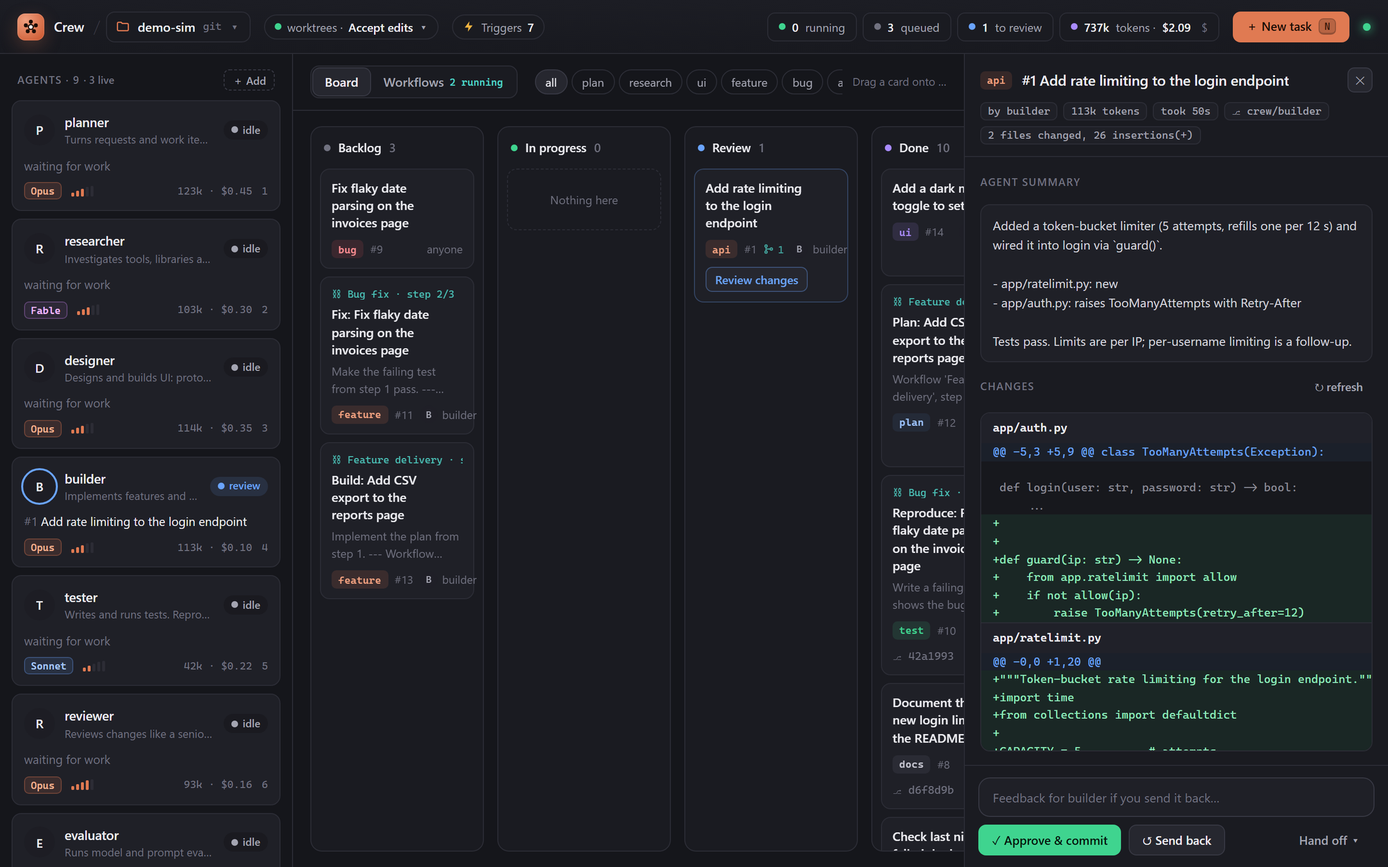
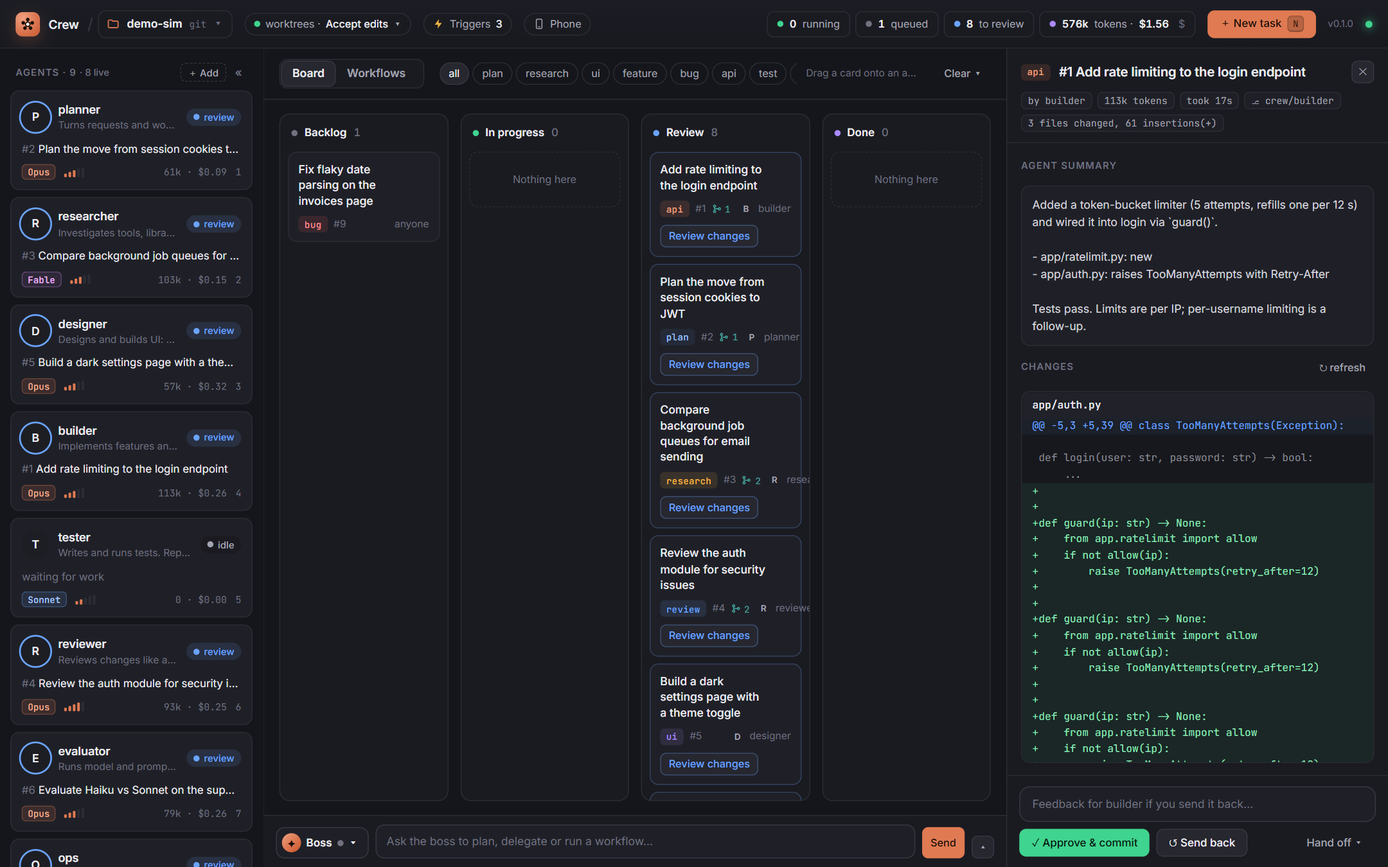
Collapsible agents pane, Clear on the chat panel, Triggers before Phone; README and screenshots refreshed
- « collapses the agents rail to avatars with status dots (remembered per browser)
- Clear chat is a red outlined button at the top right of the open conversation; the input-row icon is gone
- the / picker's class no longer collides with the header's / separator
- README: install, releasing, / picker, canvas, outputs; new hero, agent, review, flows, canvas, slash and phone screenshots

diff --git a/index.html b/index.html
@@ -306,19 +306,19 @@ textarea::placeholder,input::placeholder{color:var(--faint)}
 .menu .mi.cur{color:var(--text)}.menu .mi.cur::after{content:"\2713";margin-left:auto;color:var(--accent)}
 .menu .sep{height:1px;background:var(--line);margin:5px 4px}
 .menu .mi[aria-disabled=true]{opacity:.38;pointer-events:none}
-.slash{position:fixed;z-index:41;background:var(--raised);border-radius:12px;box-shadow:var(--shadow);padding:6px;display:flex;flex-direction:column;animation:rise .12s ease-out}
-.slash[hidden]{display:none}
-.slash .sh{padding:4px 10px 6px;font-size:11px;color:var(--faint);text-transform:uppercase;letter-spacing:.08em;font-weight:600;display:flex;gap:8px}
-.slash .sh span{margin-left:auto;text-transform:none;letter-spacing:0;font-weight:400}
-.slash .sl{overflow-y:auto;max-height:min(320px,42dvh)}
-.slash .si{display:flex;align-items:baseline;gap:10px;padding:7px 10px;border-radius:8px;cursor:pointer;color:var(--muted);font-size:12.5px}
-.slash .si.on{background:var(--hover);color:var(--text)}
-.slash .si b{font:600 12.5px var(--mono);color:var(--text);white-space:nowrap}
-.slash .si b i{font-style:normal;color:var(--accent)}
-.slash .si .d{flex:1;min-width:0;overflow:hidden;text-overflow:ellipsis;white-space:nowrap;color:var(--faint);font-size:12px}
-.slash .si .k{font-size:10.5px;color:var(--faint);border:1px solid var(--line);border-radius:6px;padding:0 6px;white-space:nowrap}
-.slash .si .k.crew{color:var(--accent);border-color:var(--accent-line)}
-.slash .empty{padding:10px;color:var(--faint);font-size:12.5px}
+.slashpop{position:fixed;z-index:41;background:var(--raised);border-radius:12px;box-shadow:var(--shadow);padding:6px;display:flex;flex-direction:column;animation:rise .12s ease-out}
+.slashpop[hidden]{display:none}
+.slashpop .sh{padding:4px 10px 6px;font-size:11px;color:var(--faint);text-transform:uppercase;letter-spacing:.08em;font-weight:600;display:flex;gap:8px}
+.slashpop .sh span{margin-left:auto;text-transform:none;letter-spacing:0;font-weight:400}
+.slashpop .sl{overflow-y:auto;max-height:min(320px,42dvh)}
+.slashpop .si{display:flex;align-items:baseline;gap:10px;padding:7px 10px;border-radius:8px;cursor:pointer;color:var(--muted);font-size:12.5px}
+.slashpop .si.on{background:var(--hover);color:var(--text)}
+.slashpop .si b{font:600 12.5px var(--mono);color:var(--text);white-space:nowrap}
+.slashpop .si b i{font-style:normal;color:var(--accent)}
+.slashpop .si .d{flex:1;min-width:0;overflow:hidden;text-overflow:ellipsis;white-space:nowrap;color:var(--faint);font-size:12px}
+.slashpop .si .k{font-size:10.5px;color:var(--faint);border:1px solid var(--line);border-radius:6px;padding:0 6px;white-space:nowrap}
+.slashpop .si .k.crew{color:var(--accent);border-color:var(--accent-line)}
+.slashpop .empty{padding:10px;color:var(--faint);font-size:12.5px}
 .kebab{flex:none;width:22px;height:22px;border-radius:6px;display:grid;place-items:center;border:0;background:transparent;color:var(--faint);cursor:pointer;opacity:0;transition:opacity .12s,background .12s;font-size:14px;line-height:1}
 .card:hover .kebab,.kebab:focus-visible{opacity:1}.kebab:hover{background:var(--hover);color:var(--text)}
 .card .th{display:flex;align-items:flex-start;gap:4px}.card .th .t{flex:1;min-width:0}
@@ -591,6 +591,24 @@ textarea::placeholder,input::placeholder{color:var(--faint)}
 .card[data-card]{cursor:pointer}
 .agent.dropb{box-shadow:inset 0 3px 0 var(--accent)}.agent.dropa{box-shadow:inset 0 -3px 0 var(--accent)}
 .agent.dragging{opacity:.45}
+.railbtn{border:0;background:transparent;color:var(--faint);cursor:pointer;border-radius:6px;padding:2px 6px;font-size:13px;line-height:1}
+.railbtn:hover{color:var(--text);background:var(--hover)}
+.sec .sr{display:flex;align-items:center;gap:4px}
+@media (min-width:761px){
+  .body.rail-min{grid-template-columns:60px 1fr}
+  .body.rail-min.drawer-open{grid-template-columns:60px 1fr 440px}
+  .rail-min .rail{padding:12px 6px;overflow-x:hidden}
+  .rail-min .sec{justify-content:center;margin:2px 0 12px}
+  .ravs{display:flex;flex-direction:column;align-items:center;gap:10px}
+  .rmini{cursor:pointer;border-radius:50%;padding:2px;position:relative}
+  .rmini .av{width:36px;height:36px}
+  .rmini.sel .av{box-shadow:0 0 0 2px var(--accent)}
+  .rmini .sd{position:absolute;right:1px;bottom:1px;width:9px;height:9px;border-radius:50%;border:2px solid var(--bg);background:var(--faint)}
+  .rmini .sd.running{background:var(--green)}.rmini .sd.review{background:var(--blue,#6aa0ff)}.rmini .sd.error,.rmini .sd.killed{background:var(--red)}.rmini .sd.paused{background:var(--amber)}
+}
+@media (min-width:761px) and (max-width:1100px){.body.rail-min.drawer-open{grid-template-columns:60px 1fr}}
+.clearbtn{border:1px solid rgba(255,107,114,.55);color:#ff8a90;background:transparent;border-radius:8px;padding:3px 11px;font-size:12px;font-weight:500;cursor:pointer;margin-left:10px;flex:none}
+.clearbtn:hover{background:var(--red-soft);border-color:#ff8a90}
 .btn.run i{font-style:normal;color:var(--green);font-size:11px}
 </style>
 </head>
@@ -604,8 +622,8 @@ textarea::placeholder,input::placeholder{color:var(--faint)}
       <span class="pn" id="projName">…</span><span class="pb" id="projGit"></span><span class="faint">▾</span>
     </button>
     <button class="chip modebtn" id="mode" title="Permission mode for all agents"></button>
-    <button class="chip phonebtn" id="phoneBtn" title="Open Crew on your phone" hidden><svg width="13" height="13" viewBox="0 0 24 24" fill="none" stroke="currentColor" stroke-width="2" stroke-linecap="round"><rect x="6" y="2" width="12" height="20" rx="2.5"/><path d="M11 18h2"/></svg> Phone</button>
     <button class="chip trigbtn" id="trigBtn" title="Triggers: schedules, events, file watches, polls and webhooks"><svg width="13" height="13" viewBox="0 0 24 24" fill="currentColor" aria-hidden="true"><path d="M13 2 4 14h7l-1 8 9-12h-7z"/></svg> <span class="tl">Triggers</span> <b id="trigN">0</b></button>
+    <button class="chip phonebtn" id="phoneBtn" title="Open Crew on your phone" hidden><svg width="13" height="13" viewBox="0 0 24 24" fill="none" stroke="currentColor" stroke-width="2" stroke-linecap="round"><rect x="6" y="2" width="12" height="20" rx="2.5"/><path d="M11 18h2"/></svg> Phone</button>
     <div class="stats" id="stats"></div>
     <button class="btn ghost" id="palBtn" title="Command palette">Search <kbd>Ctrl K</kbd></button>
     <button class="btn primary" id="newBtn">＋ New task <kbd style="background:rgba(0,0,0,.18);border-color:rgba(0,0,0,.2);color:#3a1a0c">N</kbd></button>
@@ -631,7 +649,6 @@ textarea::placeholder,input::placeholder{color:var(--faint)}
           <button class="chatto boss" id="chatTo" title="Who you're talking to"></button>
           <textarea id="chatIn" rows="1" placeholder="Ask the boss to plan, delegate or run a workflow…"></textarea>
           <button class="btn primary sm" id="chatSend" style="height:36px">Send</button>
-          <button class="iconbtn" id="chatClear" title="Clear this chat and start a fresh session (frees its context)">⌫</button>
           <button class="iconbtn" id="chatToggle" title="Show conversation">▴</button>
         </div>
       </div>
@@ -824,7 +841,15 @@ function render() {
 }
 
 function renderRail() {
-  $('#rail').innerHTML = `<div class="sec"><span>Agents · ${S.agents.length} <span style="font-weight:500;letter-spacing:0;text-transform:none">· ${S.agents.filter(a => a.alive).length} live</span></span><button class="add" data-add-agent title="Add an agent">＋ Add</button></div>` +
+  const mini = view.railMin && !matchMedia('(max-width:760px)').matches;
+  $('#body').classList.toggle('rail-min', mini);
+  if (mini) {
+    $('#rail').innerHTML = `<div class="sec"><button class="railbtn" data-rail-toggle title="Expand the agents pane">»</button></div><div class="ravs">` +
+      S.agents.map(a => `<div class="rmini ${view.drawer?.agent === a.name ? 'sel' : ''}" data-agent="${a.name}" data-drop-agent="${a.name}" title="${esc(a.name)} · ${a.status}${a.activity ? ' · ' + esc(a.activity) : ''}"><div class="av ${a.status}">${esc(a.name[0])}</div><span class="sd ${a.status}"></span></div>`).join('') +
+      `<button class="railbtn" data-add-agent title="Add an agent" style="font-size:16px">＋</button></div>`;
+    return;
+  }
+  $('#rail').innerHTML = `<div class="sec"><span>Agents · ${S.agents.length} <span style="font-weight:500;letter-spacing:0;text-transform:none">· ${S.agents.filter(a => a.alive).length} live</span></span><span class="sr"><button class="add" data-add-agent title="Add an agent">＋ Add</button><button class="railbtn" data-rail-toggle title="Collapse the agents pane">«</button></span></div>` +
     S.agents.map((a, i) => {
       const t = a.task ? task(a.task) : null;
       const sel = view.drawer?.agent === a.name;
@@ -1856,7 +1881,7 @@ function renderChat() {
   if (lg.dataset.sig === sig) return;
   const atBottom = lg.scrollHeight - lg.scrollTop - lg.clientHeight < 60;
   lg.dataset.sig = sig;
-  lg.innerHTML = `<div class="chathead">${boss ? `<b style="color:var(--text)">Boss</b> · ${esc(MODEL_INFO[t.model || '']?.[0] || t.model)} · delegates to the crew, never edits code` : `<b style="color:var(--text)">${esc(t.name)}</b> · ${esc(t.role.slice(0, 80))}`}${busy ? ' · <span style="color:var(--green)">working…</span>' : ''}<span style="margin-left:auto">${fmtTok(tokTotal(t))} tok${costTxt(t.cost)}</span></div>` +
+  lg.innerHTML = `<div class="chathead">${boss ? `<b style="color:var(--text)">Boss</b> · ${esc(MODEL_INFO[t.model || '']?.[0] || t.model)} · delegates to the crew, never edits code` : `<b style="color:var(--text)">${esc(t.name)}</b> · ${esc(t.role.slice(0, 80))}`}${busy ? ' · <span style="color:var(--green)">working…</span>' : ''}<span style="margin-left:auto">${fmtTok(tokTotal(t))} tok${costTxt(t.cost)}</span><button class="clearbtn" data-chat-clear title="Clear this chat and start a fresh session (frees its context)">Clear</button></div>` +
     (t.log.length ? renderLog(t.log.slice(-120)) : `<div class="empty">${boss ? 'Try: “Plan and build CSV export for reports, then have it tested and reviewed.”' : 'No messages yet.'}</div>`);
   if (atBottom || lg.dataset.jump) { lg.scrollTop = lg.scrollHeight; delete lg.dataset.jump; }
 }
@@ -1886,7 +1911,15 @@ function clearChat(who) {
   askConfirm('Clear this chat?', `The conversation with <b>${esc(name)}</b> is removed and its context is emptied; the next message starts a fresh session. Tasks, branches and commits are kept.`, 'Clear chat',
     async () => { const r = await act('clear_chat', {agent: who}); if (r.ok) { $('#chatlog').dataset.sig = ''; toast('Chat cleared', 'var(--green)'); } }, true);
 }
-$('#chatClear').onclick = () => clearChat(chatWho());
+document.addEventListener('click', e => {
+  if (e.target.closest('[data-chat-clear]')) return clearChat(chatWho());
+  if (e.target.closest('[data-rail-toggle]')) {
+    view.railMin = !view.railMin;
+    try { localStorage.setItem('crew.railMin', view.railMin ? '1' : ''); } catch {}
+    renderRail();
+  }
+});
+try { view.railMin = !!localStorage.getItem('crew.railMin'); } catch {}
 
 // ---- / commands: the crew's own, plus whatever the agent's Claude session can run ----------
 const CREW_CMDS = [
@@ -1926,7 +1959,7 @@ function slashItems(data) {
   for (const n of names) add(n, skills.has(n) || cat[n]?.kind === 'skill' ? 'skill' : 'command', cat[n]?.desc || CC_DESC[n]);
   return out;
 }
-const sl = Object.assign(document.createElement('div'), {className: 'slash', hidden: true, id: 'slash'});
+const sl = Object.assign(document.createElement('div'), {className: 'slashpop', hidden: true, id: 'slash'});
 document.body.append(sl);
 let slash = null; // {el, who, items, sel}
 const slashWho = el => el.id === 'msg' ? view.drawer?.agent : el.id === 'chatIn' ? chatWho() : null;

diff --git a/README.md b/README.md
@@ -31,6 +31,18 @@ python server.py --demo
 
 Open **http://127.0.0.1:8770**.
 
+## Install
+
+Crew is pure standard-library Python (3.10 or newer) and installs as a `crew` command. [pipx](https://pipx.pypa.io/) keeps it isolated:
+
+```bash
+pipx install claude-crew                      # from PyPI, once published
+pipx install https://github.com/pranjal-joshi/claude-crew/releases/download/v0.1.0/claude_crew-0.1.0-py3-none-any.whl   # a release wheel
+pipx install git+https://github.com/pranjal-joshi/claude-crew   # latest main
+```
+
+Then `crew --demo` or `crew --project /path/to/your/repo` behaves exactly like `python server.py ...`. When installed, the default `crew.json` lives in the folder you run `crew` from; state and worktrees stay in `~/.crew`. `crew --version` prints the version.
+
 ## Use it on your code
 
 You need [Claude Code](https://docs.claude.com/en/docs/claude-code) installed and signed in (`claude` works in your terminal).
@@ -63,6 +75,8 @@ Crew gives that queue a home:
 ## The boss
 
 A chat bar at the bottom (<kbd>/</kbd>) talks to the **boss**: a Claude session that runs the crew instead of writing code. Ask it to "plan and build CSV export, then have it tested and reviewed" and it creates tasks, assigns agents, starts workflows, messages or stops agents, and adds triggers, through a small set of crew tools (`crew_mcp.py`). Switch the chat to any agent to talk to it directly.
+
+Type <kbd>/</kbd> in the chat bar (or in an agent's message box) for a picker of commands and skills: Crew's own `/clear` `/compact` `/stop`, plus that agent's Claude Code slash commands and skills with their descriptions. <kbd>↑</kbd><kbd>↓</kbd> to move, <kbd>Tab</kbd> or <kbd>Enter</kbd> to pick, <kbd>Esc</kbd> to close.
 
 The boss runs with only the crew tools and a few read-only ones, so a turn costs about 10k tokens of context instead of your full setup.
 
@@ -116,9 +130,9 @@ The **Output** block decides what a finished run delivers:
 - **■ Stop** (agent card, drawer, or **Stop all** in the header) ends the current run at once. The session is kept, the task goes back to the backlog **on hold**, and the agent pauses until you press **▶ Resume** or give it work.
 - **Kill** disables an agent until you respawn it. Use it for an agent that misbehaves.
 - **Clear ▾** removes Done tasks, or the whole board (running agents are stopped first). Branches and commits are kept.
-- **⌫** in the chat bar clears the conversation with the boss or the agent you're talking to, and empties its context: the next message starts a fresh session.
+- **Clear** (red button, top right of an open boss or agent chat) wipes that conversation and empties its context: the next message starts a fresh session.
 
-Click a card on the board to open the agent that handled it. Drag agents in the left rail to reorder the crew; the order is saved to `crew.json`.
+Click a card on the board to open the agent that handled it. Drag agents in the left rail to reorder the crew; the order is saved to `crew.json`. Collapse the rail with « to a slim column of avatars and status dots, and » brings it back (remembered per browser).
 
 ## Context per task
 
@@ -149,7 +163,7 @@ Nine presets cover the common loops: daily standup, test what ships, review what
 | | |
 | --- | --- |
 | 🧑🤝🧑 **An SDLC crew** | Planner, researcher, designer, builder, tester, reviewer, evaluator, ops and scribe by default. Add, remove and re-role agents from the UI. |
-| ⛓ **Workflows** | Chain agents in order (plan → build → test → review → write-up), with an approval or auto gate per step. |
+| ⛓ **Workflows** | Chain agents in order (plan → build → test → review → write-up) on an n8n-style canvas, with an approval or auto gate per step and a choice of output: board, report file, webhook or next workflow. |
 | ⚡ **Triggers** | Schedules, task events, file watches, command polls and webhooks start work on their own. Presets included. |
 | 🧹 **Fresh context per task** | A new session per task keeps tokens down; send-back still resumes. Per-agent switch. |
 | 🧠 **Model and effort per agent** | Opus for the builder, Sonnet for the tester, Fable for research: each agent gets its own model and effort level (low to max). |
@@ -158,6 +172,7 @@ Nine presets cover the common loops: daily standup, test what ships, review what
 | 🔍 **Review gate** | Agent summary and colored diff side by side. Approve and commit, send back, or hand off to another agent. |
 | ↪ **Hand-offs** | Drag any card, in any column, onto another agent. The earlier summary, branch and commit go along as context. |
 | ✦ **Boss chat** | A chat bar that runs the crew: tasks, workflows, agents and triggers, from plain requests. |
+| ⌨ **Slash picker** | Type `/` in any chat box for Crew commands plus the agent's Claude Code commands and skills. **Clear** in the chat panel wipes a chat and its context. |
 | 💬 **Talk mid-run** | Message any agent while it works. The message lands in the running session. |
 | 📱 **Phone app feel** | `--lan` plus a QR code. On a phone: bottom navigation, swipeable columns, bottom sheets, Android back closes sheets. |
 | ■ **Stop, kill, clear** | Stop a run (session kept, task on hold), stop everything at once, or clear the board. |
@@ -165,7 +180,7 @@ Nine presets cover the common loops: daily standup, test what ships, review what
 | 🔢 **Tokens and cost** | Live token counts per agent, per task and in total. Hide the dollar amounts with one click. |
 | 🧩 **Your skills and MCP servers** | Agents are ordinary Claude Code sessions, so they load your skills, plugins and MCP servers. |
 | 📁 **Projects** | Switch repos from the header. Each project keeps its own board, sessions and worktrees. |
-| ⌨ **Keyboard first** | `N` new task, `T` triggers, `W` / `B` workflows / board, `1`–`9` open an agent, `Ctrl K` command palette, `Esc` close. |
+| ⌨ **Keyboard first** | `/` talk to the boss, `N` new task, `T` triggers, `W` / `B` workflows / board, `1`–`9` open an agent, `Ctrl K` command palette, `Esc` close. |
 
 ## Screenshots
 
@@ -175,8 +190,8 @@ Nine presets cover the common loops: daily standup, test what ships, review what
     <td width="50%"><img src="assets/review.png" alt="Review drawer with summary and diff"><br><sub><b>Review.</b> The agent's summary and its diff. Approve commits to its branch.</sub></td>
   </tr>
   <tr>
-    <td width="50%"><img src="assets/flows.png" alt="Workflows tab with five workflows and two live runs"><br><sub><b>Workflows.</b> Agents in a fixed order; runs show each step live.</sub></td>
-    <td width="50%"><img src="assets/wf-edit.png" alt="Workflow editor"><br><sub><b>Workflow editor.</b> Trigger → agents → output on a canvas.</sub></td>
+    <td width="50%"><img src="assets/flows.png" alt="Workflows tab with five workflows"><br><sub><b>Workflows.</b> Agents in a fixed order; runs show each step live. Run has a green ▶.</sub></td>
+    <td width="50%"><img src="assets/wf-edit.png" alt="Workflow editor"><br><sub><b>Workflow editor.</b> When → agents → Output on a canvas; drag to reorder, ✋ / ⚡ on each line.</sub></td>
   </tr>
   <tr>
     <td width="50%"><img src="assets/triggers.png" alt="Triggers list with schedules, events and watches"><br><sub><b>Triggers.</b> Schedules, events, watches, polls and webhooks, each with its next run and history.</sub></td>
@@ -185,6 +200,10 @@ Nine presets cover the common loops: daily standup, test what ships, review what
   <tr>
     <td width="50%"><img src="assets/settings.png" alt="Per-agent model and effort settings"><br><sub><b>Model and role.</b> Per-agent model, effort, role and tags.</sub></td>
     <td width="50%"><img src="assets/hero.png" alt="Board with nine agents running"><br><sub><b>Board.</b> Agents in flight, subagents counted on each card.</sub></td>
+  </tr>
+  <tr>
+    <td width="50%"><img src="assets/slash.png" alt="Slash picker in the chat bar"><br><sub><b>Slash picker.</b> Type <code>/</code> for Crew commands, plus an agent's commands and skills.</sub></td>
+    <td width="50%"><img src="assets/phone-board.png" alt="Crew on a phone" width="240"> <img src="assets/phone-canvas.png" alt="Workflow canvas on a phone" width="240"><br><sub><b>On a phone.</b> Bottom navigation, swipeable columns, and a vertical canvas.</sub></td>
   </tr>
 </table>
 
@@ -208,7 +227,7 @@ flowchart LR
 
 ## Configuration
 
-`crew.json` is created next to `server.py` on first run and saved whenever you change things in the UI.
+`crew.json` is created next to `server.py` on first run (in the current folder when installed with pipx) and saved whenever you change things in the UI.
 
 ```jsonc
 {
@@ -226,7 +245,8 @@ flowchart LR
 | --- | --- | --- |
 | `--project PATH` | a demo repo in `~/.crew` | The repo agents work on. |
 | `--port N` | `8770` | |
-| `--config PATH` | `./crew.json` | |
+| `--config PATH` | `crew.json` | Next to `server.py` from a clone, in the current folder when installed. |
+| `--version` | | Print the version and exit. |
 | `--demo` | off | Simulated agents and sample tasks. |
 
 `CREW_CLAUDE` overrides the command used to start agents.
@@ -272,6 +292,16 @@ Ideas and PRs welcome. Open an issue first for anything big.
 ## Contributing
 
 The whole app is two files: `server.py` (Python standard library) and `index.html` (vanilla JS). `python server.py --demo` is the fastest loop; `demo/fake_claude.py` speaks the same stream-json protocol as Claude Code.
+
+Tests are standard-library `unittest` (`python -m unittest discover`), lint is `ruff check .`, and CI runs both on Linux, Windows and macOS.
+
+## Releasing
+
+1. Bump `__version__` in `server.py` (the single source of the version) and add an entry to `CHANGELOG.md`.
+2. Commit, then tag and push: `git tag vX.Y.Z && git push origin vX.Y.Z`.
+3. The **Release** workflow runs the tests, checks the tag matches `__version__`, builds the sdist and wheel, and creates a GitHub Release with both attached and generated notes.
+
+To also publish to PyPI: create a [trusted publisher](https://docs.pypi.org/trusted-publishers/) for the project `claude-crew` (owner `pranjal-joshi`, repo `claude-crew`, workflow `release.yml`, environment `pypi`), then set the repository variable `PUBLISH_PYPI` to `true`. Until then the PyPI job is skipped and releases still succeed.
 
 ## Star history
 

diff --git a/TODO.md b/TODO.md
@@ -28,17 +28,17 @@ Legend: `[x]` done and tested · `[~]` in progress · `[ ]` pending · `[-]` dro
   - [x] server: `handoff` action, depth limit, crew MCP server (`crew_mcp.py`)
   - [x] UI: "Auto (boss picks)" in the hand-off menu, ↪ from <agent> on handed-off cards
 - [x] Test on the demo + real boss calls, refresh the app, README, push
-- [ ] Refresh README screenshots/GIF for boss chat and the phone layout
+- [x] Refresh README screenshots for boss chat, slash picker and the phone layout (the demo GIF is unchanged)
 
 ## Batch: canvas editor and small asks
 
 - [x] **Workflow canvas** (n8n-style): When (trigger) → one block per agent → Output; drag to reorder, drag agents from the palette or ＋ on a line to insert, ✋/⚡ toggles on lines, inspector panel, Del removes; phone: vertical canvas, Earlier/Later buttons
 - [x] **Workflow output**: board (default), markdown report file, webhook (JSON), or start the next workflow; saved with the workflow, boss can set it too
 - [x] **Click a board card** to open the agent that handled it
-- [x] **Clear chat** (⌫ in the chat bar): wipes the conversation and context of the boss or the selected agent
+- [x] **Clear chat** (Clear button on the open chat panel): wipes the conversation and context of the boss or the selected agent
 - [x] **Reorder agents** by dragging in the rail (saved to crew.json)
 - [x] **Star history** chart in the README (Haiku subagent)
-- [ ] Refresh `assets/wf-edit.png` with the canvas editor
+- [x] Refresh `assets/wf-edit.png` with the canvas editor
 
 ## Later
 
@@ -46,3 +46,16 @@ Legend: `[x]` done and tested · `[~]` in progress · `[ ]` pending · `[-]` dro
 - [ ] Background-job and monitor indicators; hold a task until its jobs finish
 - [ ] One-click merge of approved branches
 - [ ] Shared crew memory (qmd or plain markdown) once execution is allowed
+
+## Batch: packaging and releases
+
+- [x] **`pip`/`pipx` install**: `pyproject.toml` (hatchling), `crew` command, flat source tree mapped into `claude_crew/` in the wheel
+- [x] Installed runs keep config in the current folder, never in site-packages
+- [x] **Versioning**: `__version__` in `server.py`, `--version`, version in the header, `CHANGELOG.md`
+- [x] **Tests**: stdlib `unittest` for helpers, workflows, config, reorder, clear chat, plus an HTTP smoke test
+- [x] **Lint**: ruff (E/F/W, conservative ignores)
+- [x] **CI**: lint, tests on Linux/Windows/macOS x Python 3.10-3.13, build and install the wheel
+- [x] **Release pipeline**: `v*` tag runs tests, checks the version, builds, creates the GitHub Release
+- [x] README: Install and Releasing sections
+- [ ] First tagged release (`v0.1.0`)
+- [ ] Set up the PyPI trusted publisher, then set repo variable `PUBLISH_PYPI=true`

diff --git a/CHANGELOG.md b/CHANGELOG.md
@@ -14,6 +14,8 @@ First packaged release. `pipx install claude-crew` gives a `crew` command; `pyth
 - Triggers: schedules, task events, file watches, command polls and webhooks, with presets.
 - Boss chat: a chat bar that runs the crew (tasks, workflows, agents, triggers) from plain requests; agents get a `handoff` tool through the bundled `crew_mcp.py` MCP server.
 - Stop, kill and clear controls; per-task fresh context or one kept session; context meter with Compact and New session; Clear chat.
+- A `/` picker in every chat box: Crew's `/clear` `/compact` `/stop` plus the agent's Claude Code commands and skills with descriptions.
+- Collapsible agents pane (avatars and status dots), and a Clear button on the open chat panel.
 - Permission modes (Accept edits, Auto, Bypass), token and cost tracking, multiple projects.
 - `--lan` mode with a key and QR code for phones and tablets, with an app-like mobile layout.
 - `--demo` mode with simulated agents: no Claude CLI, no tokens.
